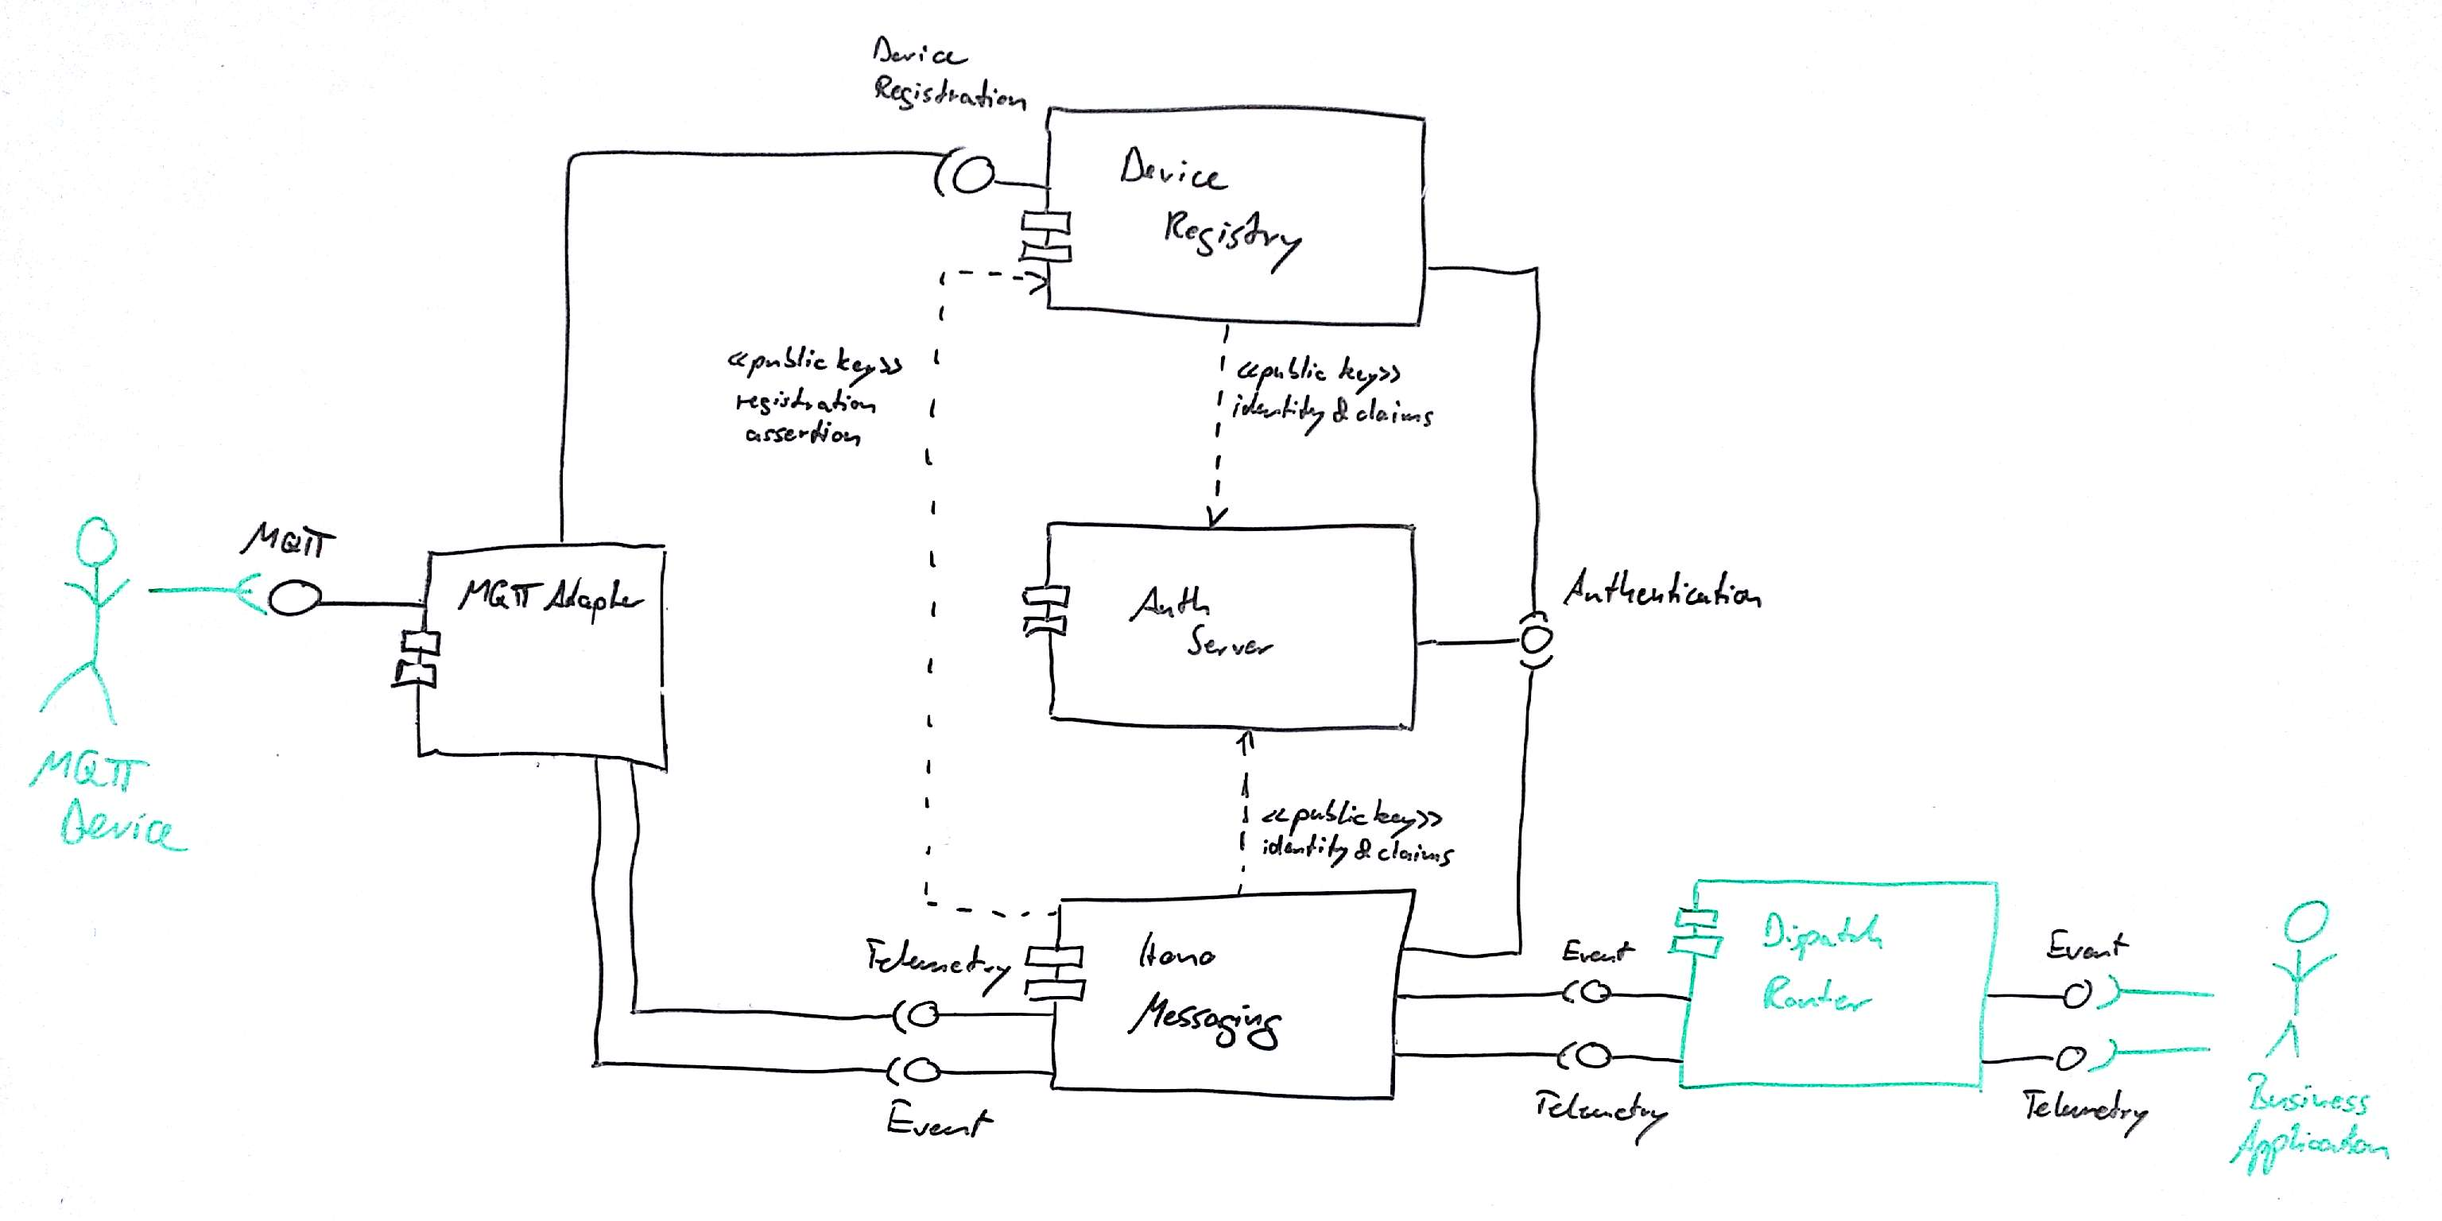
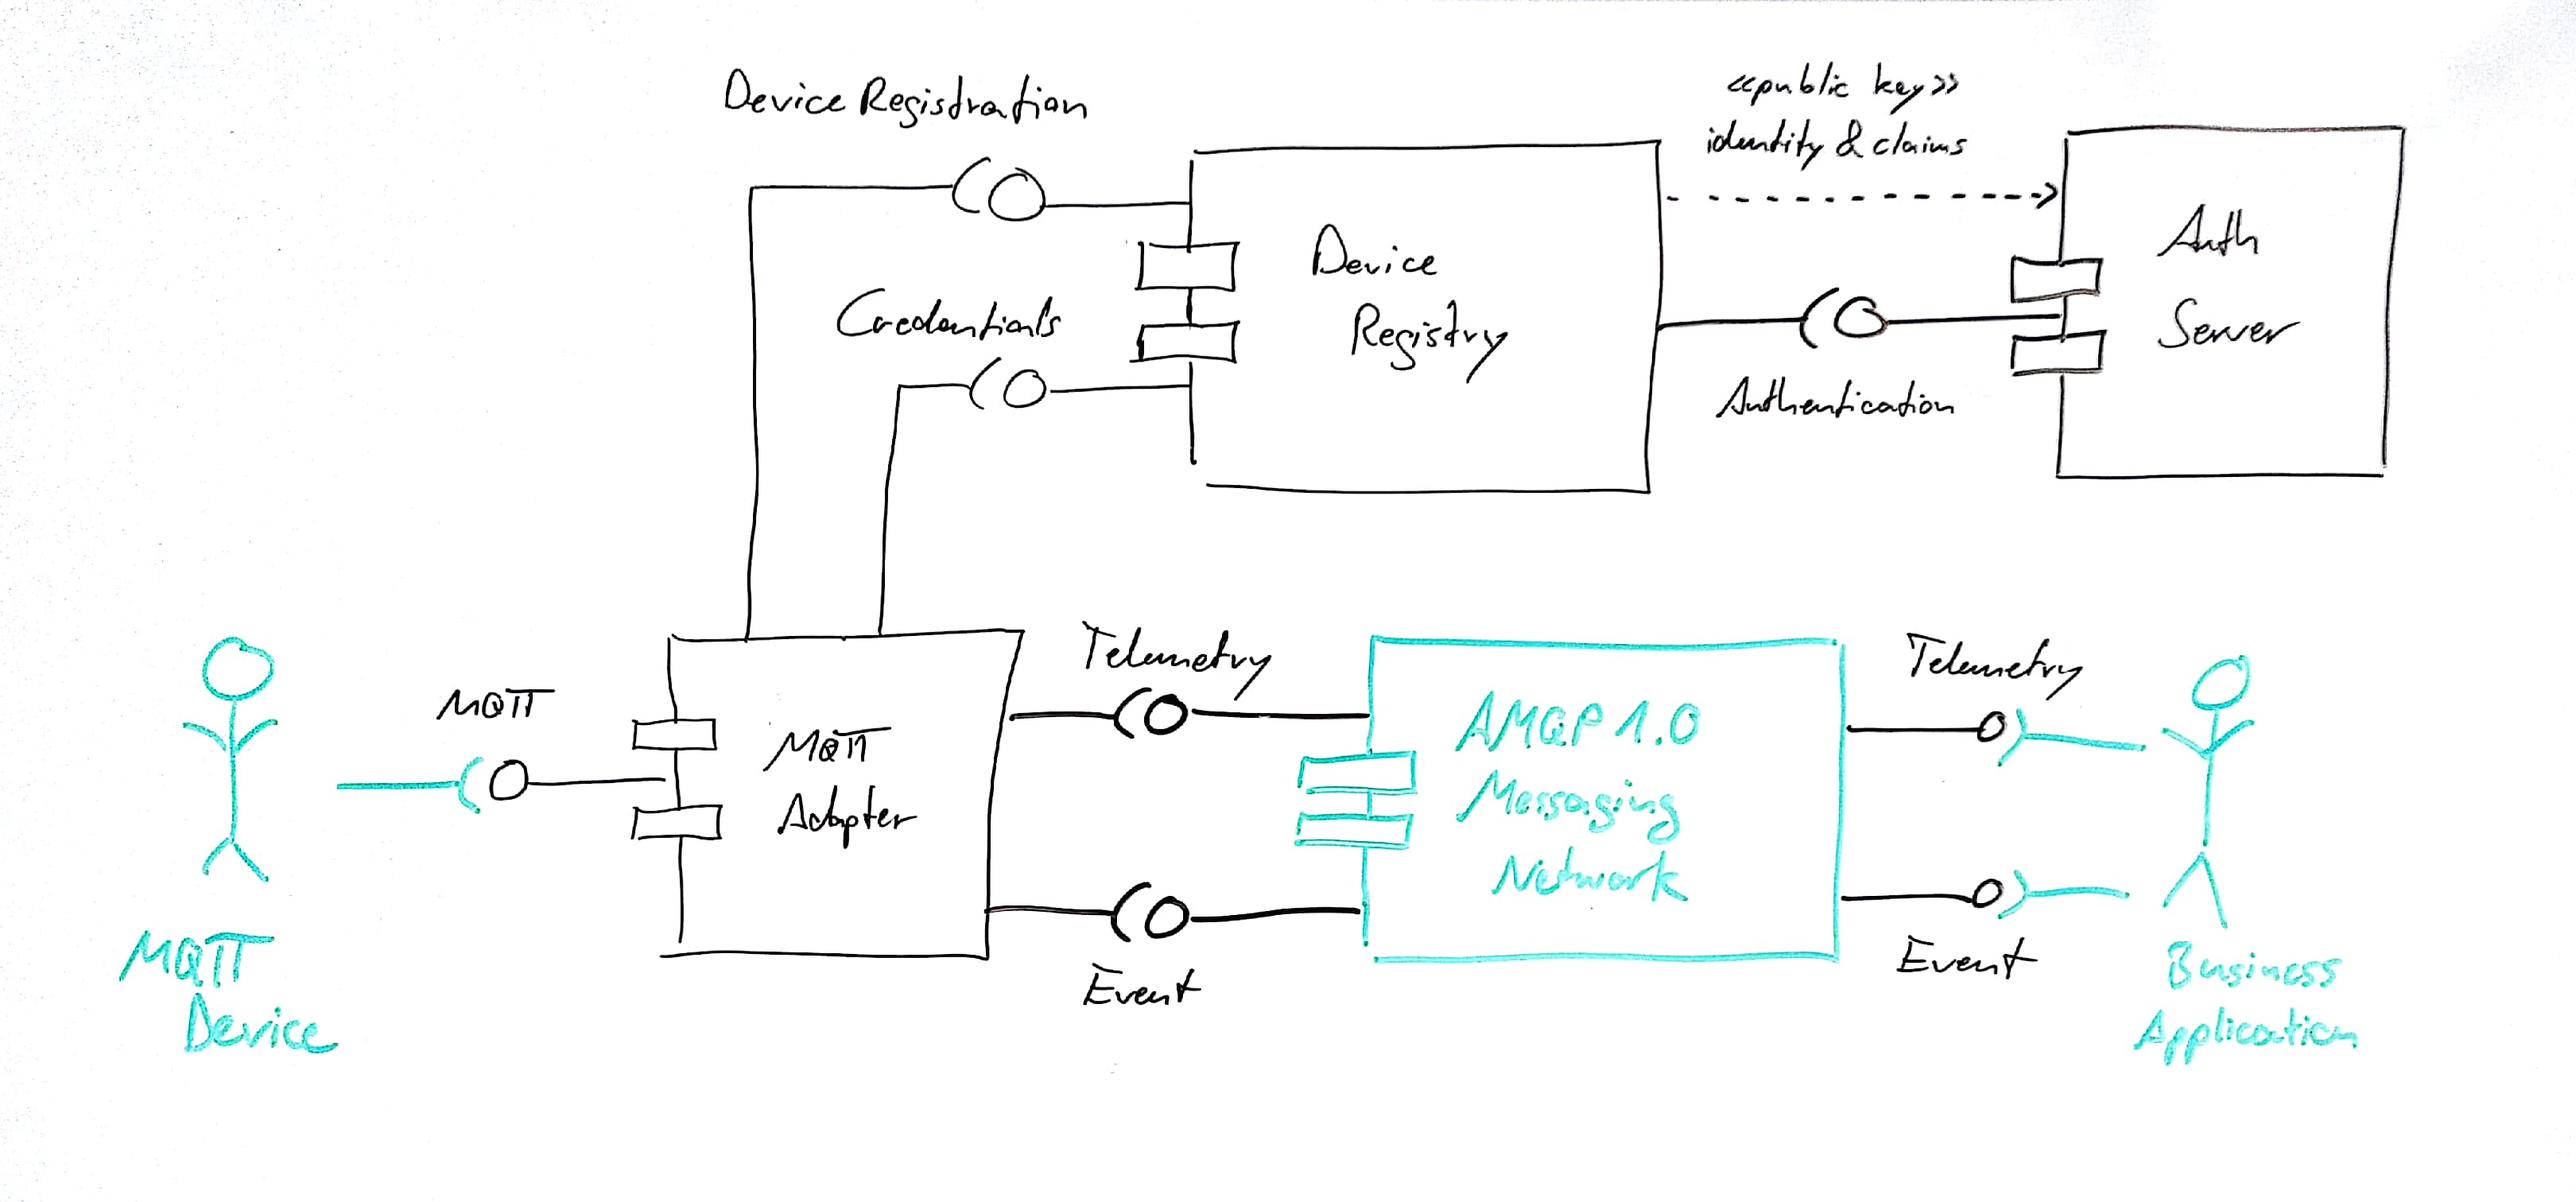
Remove Hono Messaging.

diff --git a/site/content/architecture/auth/auth.md b/site/content/architecture/auth/auth.md
@@ -17,7 +17,7 @@ This page describes how authentication and authorization of devices, consumers (
 
 The following diagram provides an overview of the components involved in use cases requiring authentication and authorization.
 
-{{< figure src="../Hono-Auth-Overview-Today.jpg" >}}
+{{< figure src="../Hono-Auth-Overview-Today.jpg">}}
 
 ### Device Auth
 
@@ -25,7 +25,7 @@ Both the HTTP adapter as well as the MQTT adapter require devices to authenticat
 
 ### System Component Auth
 
-Client components opening an AMQP connection to a server component are authenticated using SASL PLAIN as specified in [RFC 4422](https://tools.ietf.org/html/rfc4422). The server component takes the authentication information provided by the client component and opens a connection to the *Auth Server*, using the credentials provided by the client in its SASL PLAIN exchange with the *Auth Server*. On successful authentication the *Auth Server* issues a JSON Web Token (JWT) asserting the client's identity and its granted authorities to the server component. The server component *attaches* this token to the AMQP connection with the client and from then on uses it to make authorization decisions regarding the client's requests. See [Authentication API]({{< relref "api/Authentication-API.md" >}}) for details regarding the authentication process and the format of the tokens issued by the *Auth Server*.
+Client components opening an AMQP connection to a server component are authenticated using SASL PLAIN as specified in [RFC 4422](https://tools.ietf.org/html/rfc4422). The server component takes the authentication information provided by the client component and opens a connection to the *Auth Server*, using the credentials provided by the client in its SASL PLAIN exchange with the server component. On successful authentication the *Auth Server* issues a JSON Web Token (JWT) asserting the client's identity and its granted authorities to the server component. The server component then *attaches* this token to its AMQP connection with the client and from then on uses it to make authorization decisions regarding the client's requests. See [Authentication API]({{< relref "api/Authentication-API.md" >}}) for details regarding the authentication process and the format of the tokens issued by the *Auth Server*.
 
 Based on the components shown above, the following sequence diagram shows how the *MQTT Adapter* connects to the *Device Registry* and gets authenticated transparently using the *Auth Server*.
 
@@ -37,17 +37,17 @@ Service implementations may additionally authorize individual (request) messages
 
 ### Consumer Auth
 
-*Business Applications* connect to the AMQP 1.0 Messaging Network (represented by the *Dispatch Router* in the diagram above) in order to consume telemetry data and events. Authentication of consumers is done as part of establishing the AMQP connection using SASL PLAIN as specified in [RFC 4422](https://tools.ietf.org/html/rfc4422).
+*Business Applications* connect to the AMQP 1.0 Messaging Network in order to consume telemetry data and events. It is therefore the responsibility of the AMQP Network to properly authenticate and authorize the application.
 
-Consumers are authorized whenever they open a new AMQP link to the *Dispatch Router* for reading from a source address or writing to a target address.
+The Apache Qpid Dispatch Router which is used in Hono's example deployment can be configured to authenticate consumers using arbitrary SASL mechanisms. Access to addresses for receiving messages can be restricted to certain identities.
 
 ### Management of Identities and Authorities
 
 The identities and corresponding authorities that the *Auth Server* uses for verifying credentials and issuing tokens are defined in a configuration file (`services/auth/src/main/resources/permissions.json`) read in during start-up of the *Auth Server*.
 
-The identities and authorities allowed to access the *Dispatch Router* component are set in a configuration file (`dispatchrouter/qpid/qdrouter-with-broker.json`) read in during startup of the component. The default configuration file authorizes the `consumer@HONO` user to consume both telemetry data as well as events of any tenant. The default password for this user is `verysecret`. 
+The identities and authorities allowed to access the *Dispatch Router* component used in the example deployment are set in a configuration file (`example/src/main/config/qpid/qdrouter-with-broker.json`) which is read in during startup of the component. The default configuration file authorizes the `consumer@HONO` user to consume both telemetry data as well as events of any tenant. The default password for this user is `verysecret`.
 
-Please refer to the [Dispatch Router configuration guide](http://qpid.apache.org/releases/qpid-dispatch-0.8.0/man/qdrouterd.conf.html) and the [Policy documentation](https://github.com/apache/qpid-dispatch/blob/0.8.x/doc/book/policy.adoc) for details regarding configuration of *Dispatch Router* security.
+Please refer to the [Dispatch Router configuration guide](http://qpid.apache.org/releases/qpid-dispatch-1.0.1/man/qdrouterd.conf.html) and the [Policy documentation](https://github.com/apache/qpid-dispatch/blob/1.0.x/doc/book/policy.adoc) for details regarding configuration of *Dispatch Router* security.
 
 In a next step we will integrate the *Dispatch Router* with the token based authentication scheme used by the other Hono components in order to provide for seamless identity and authority management across the whole system.
 
